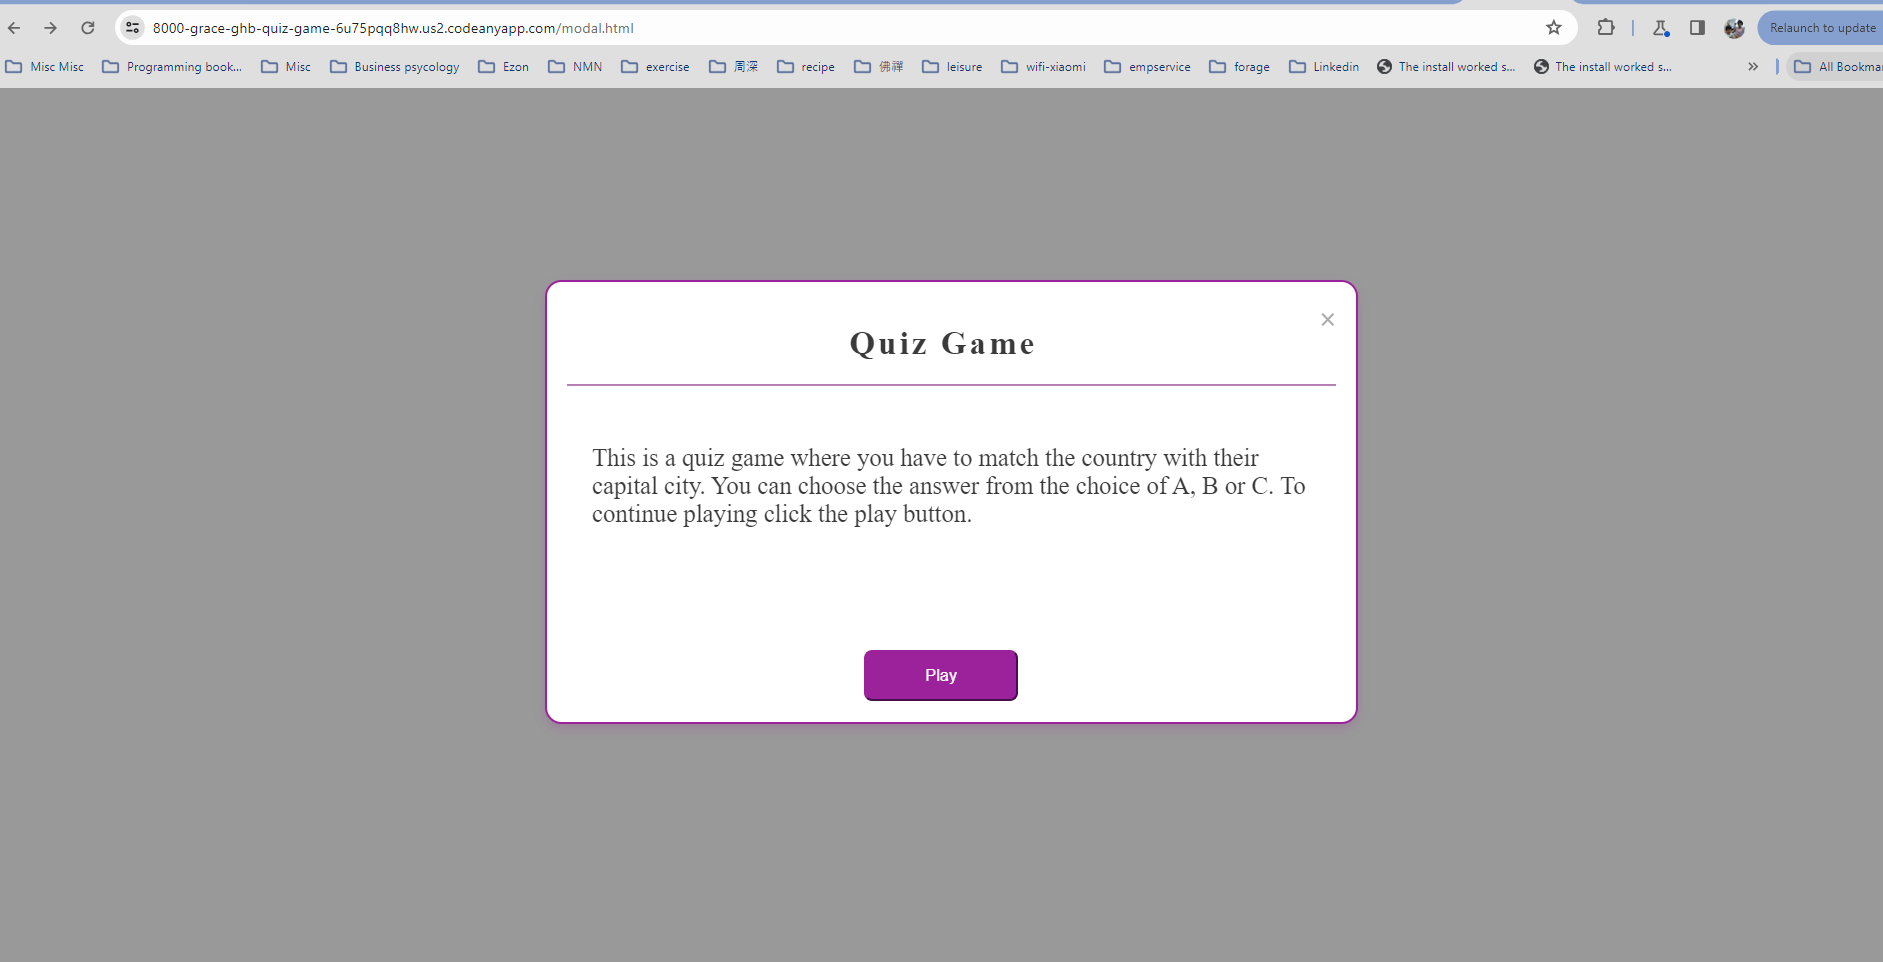
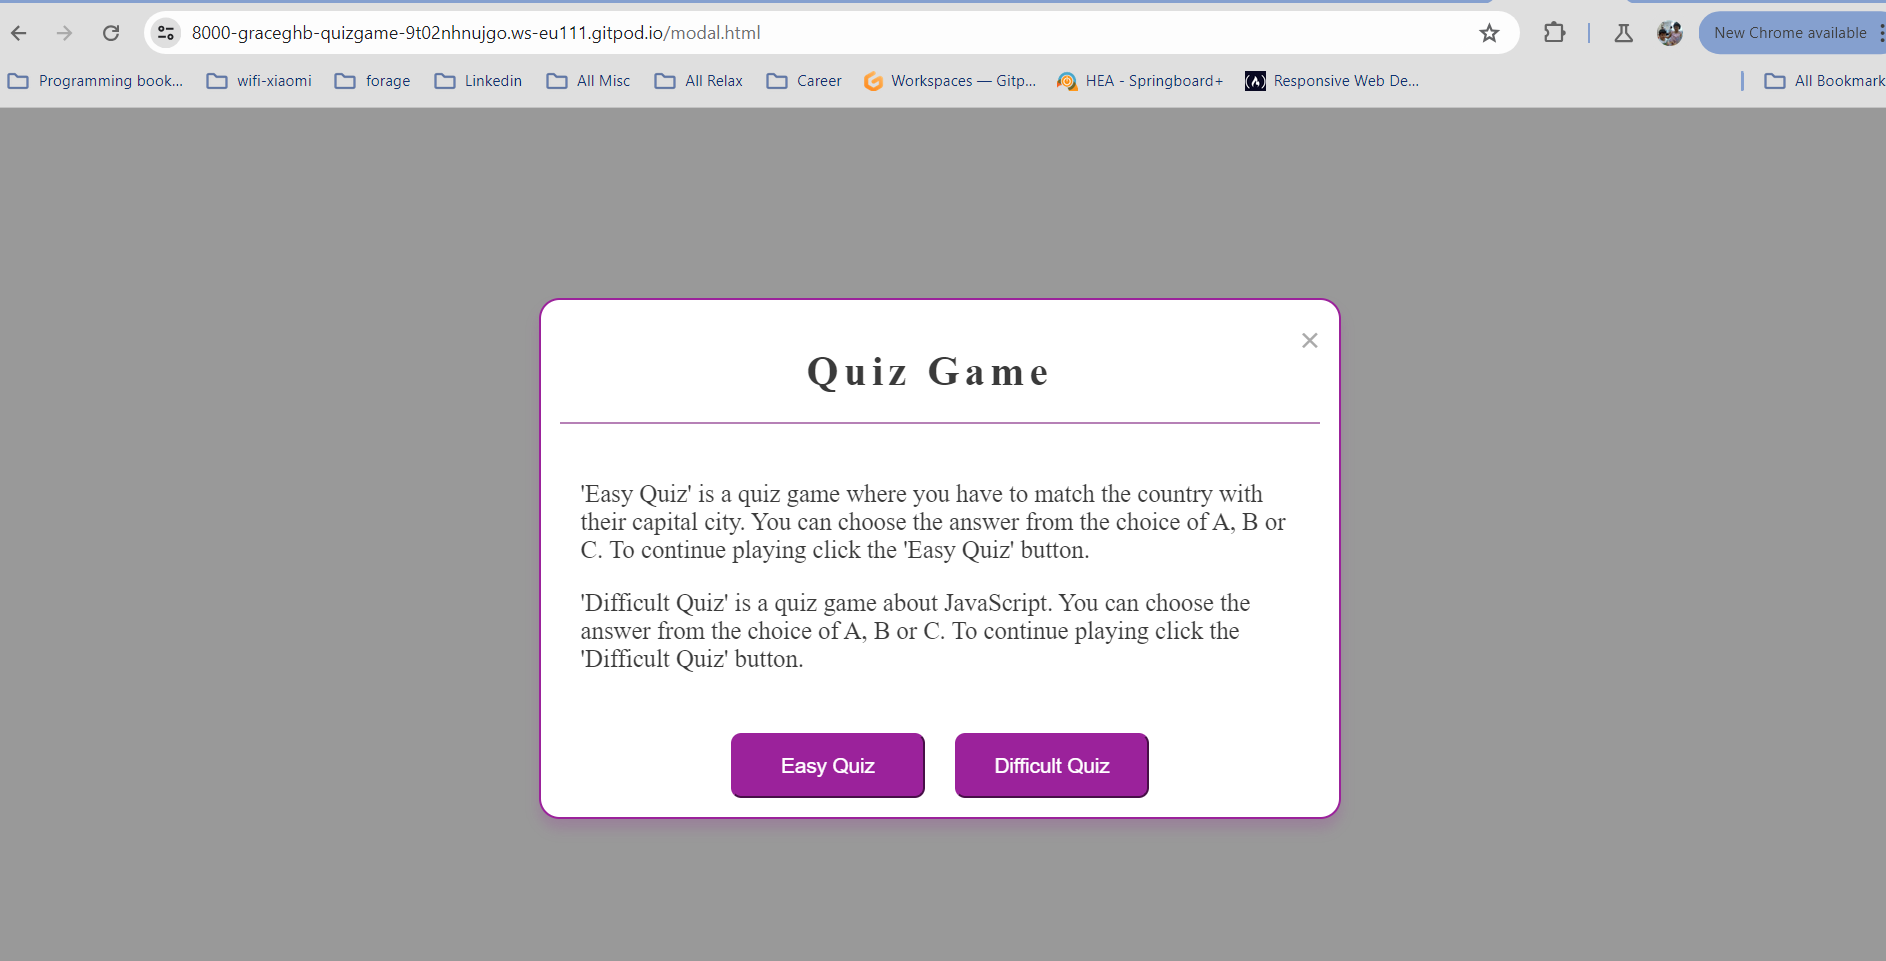
http.server

Changed region(s): [[0.2772, 0.281, 0.7392, 0.8741], [0.0, 0.0, 1.0, 0.1249], [0.4004, 0.3434, 0.5852, 0.4058]]

diff --git a/README.md b/README.md
@@ -139,7 +139,8 @@ There are four pages in this website which the users can browse through each usi
 
 #### Modal page
 
--   When the user click the button 'Play Game' they will redirect to this page.
+-   When the user click the button 'Easy Quiz' they will redirect to game 1 quiz.
+-   When the user click the button 'Difficult Quiz' they will redirect to game 2 quiz.
 -   In this page it explain about the quiz game.
 -   When user click at the 'cross' button or outside of the block, it will close the modal page and redirect user back to the main page.
 -   When the  user click on the 'Play' button, it will redirect the user to the game page.
@@ -260,10 +261,13 @@ There are four pages in this website which the users can browse through each usi
 
 ![Main page site](assets/images/main.png)
 
-### Game Page Site
+### Game 1 Page Site
 
 ![Game page site](assets/images/game-page.png)
 
+### Game 2 Page Site
+
+![Game page site](assets/images/game2-page.png)
 
 ### End Page Site
 
